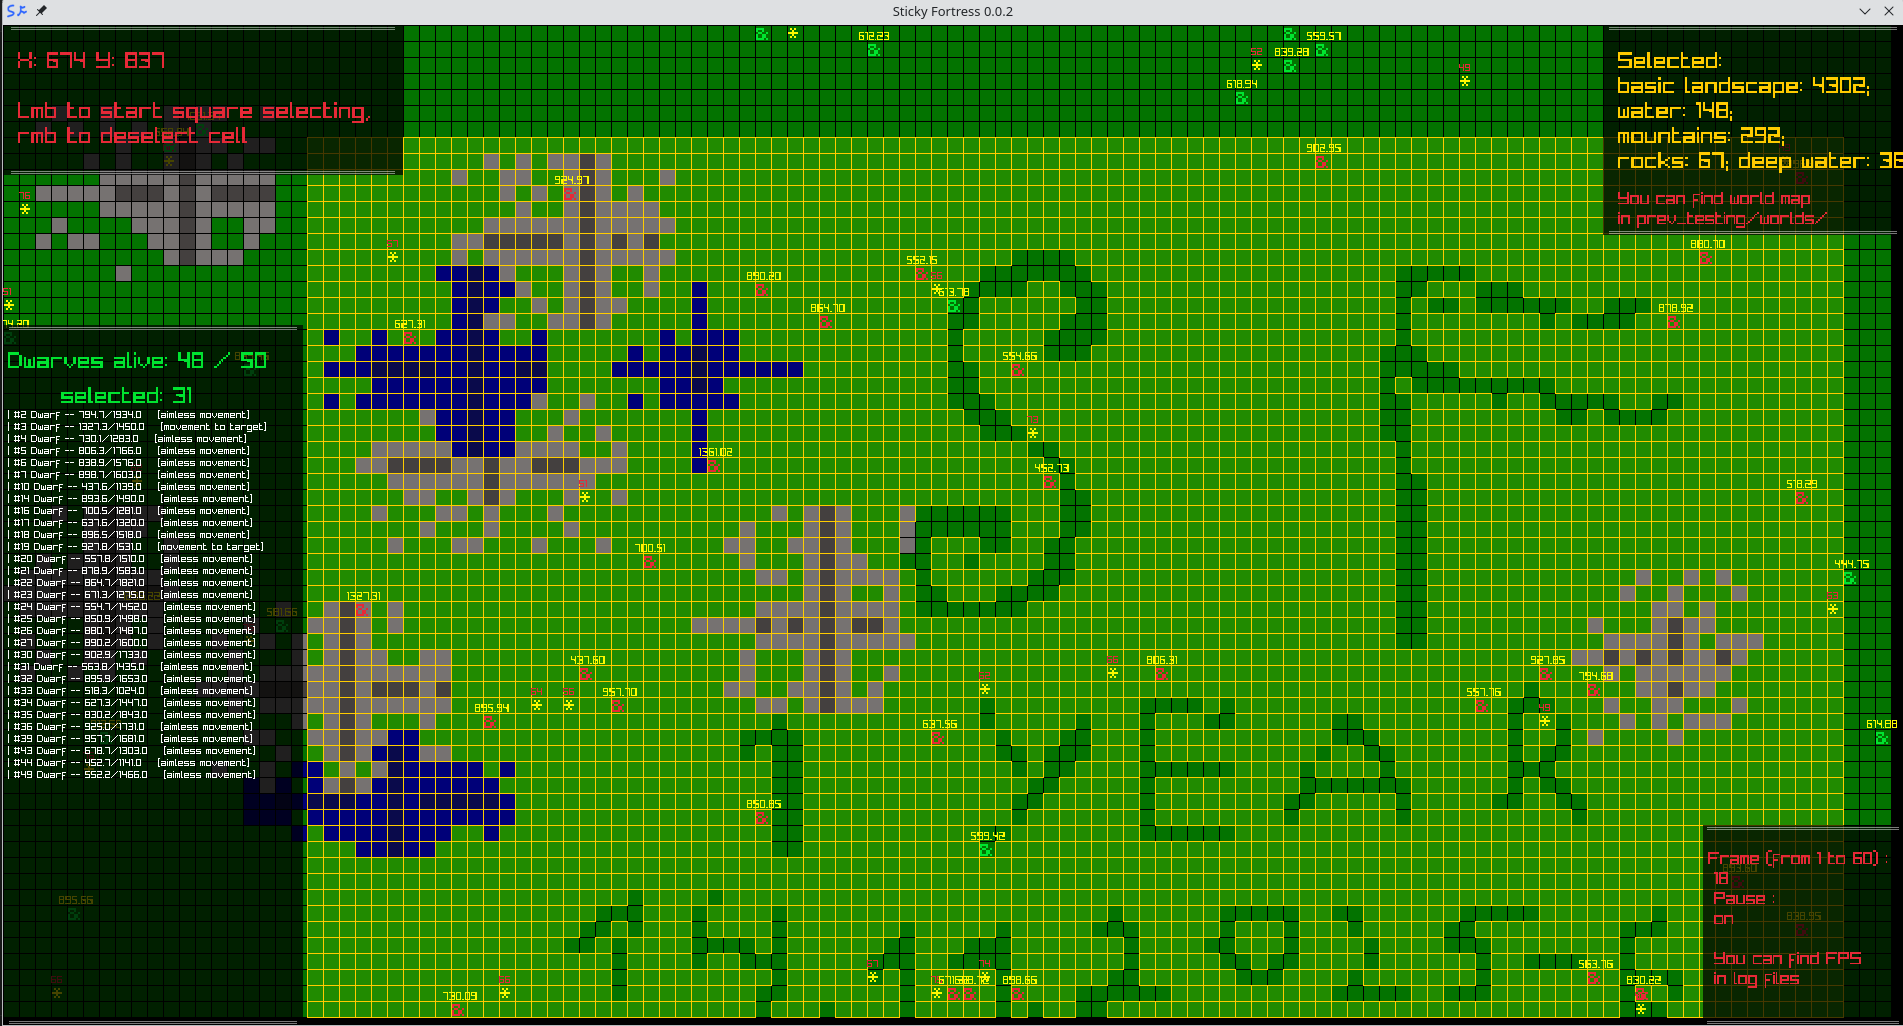
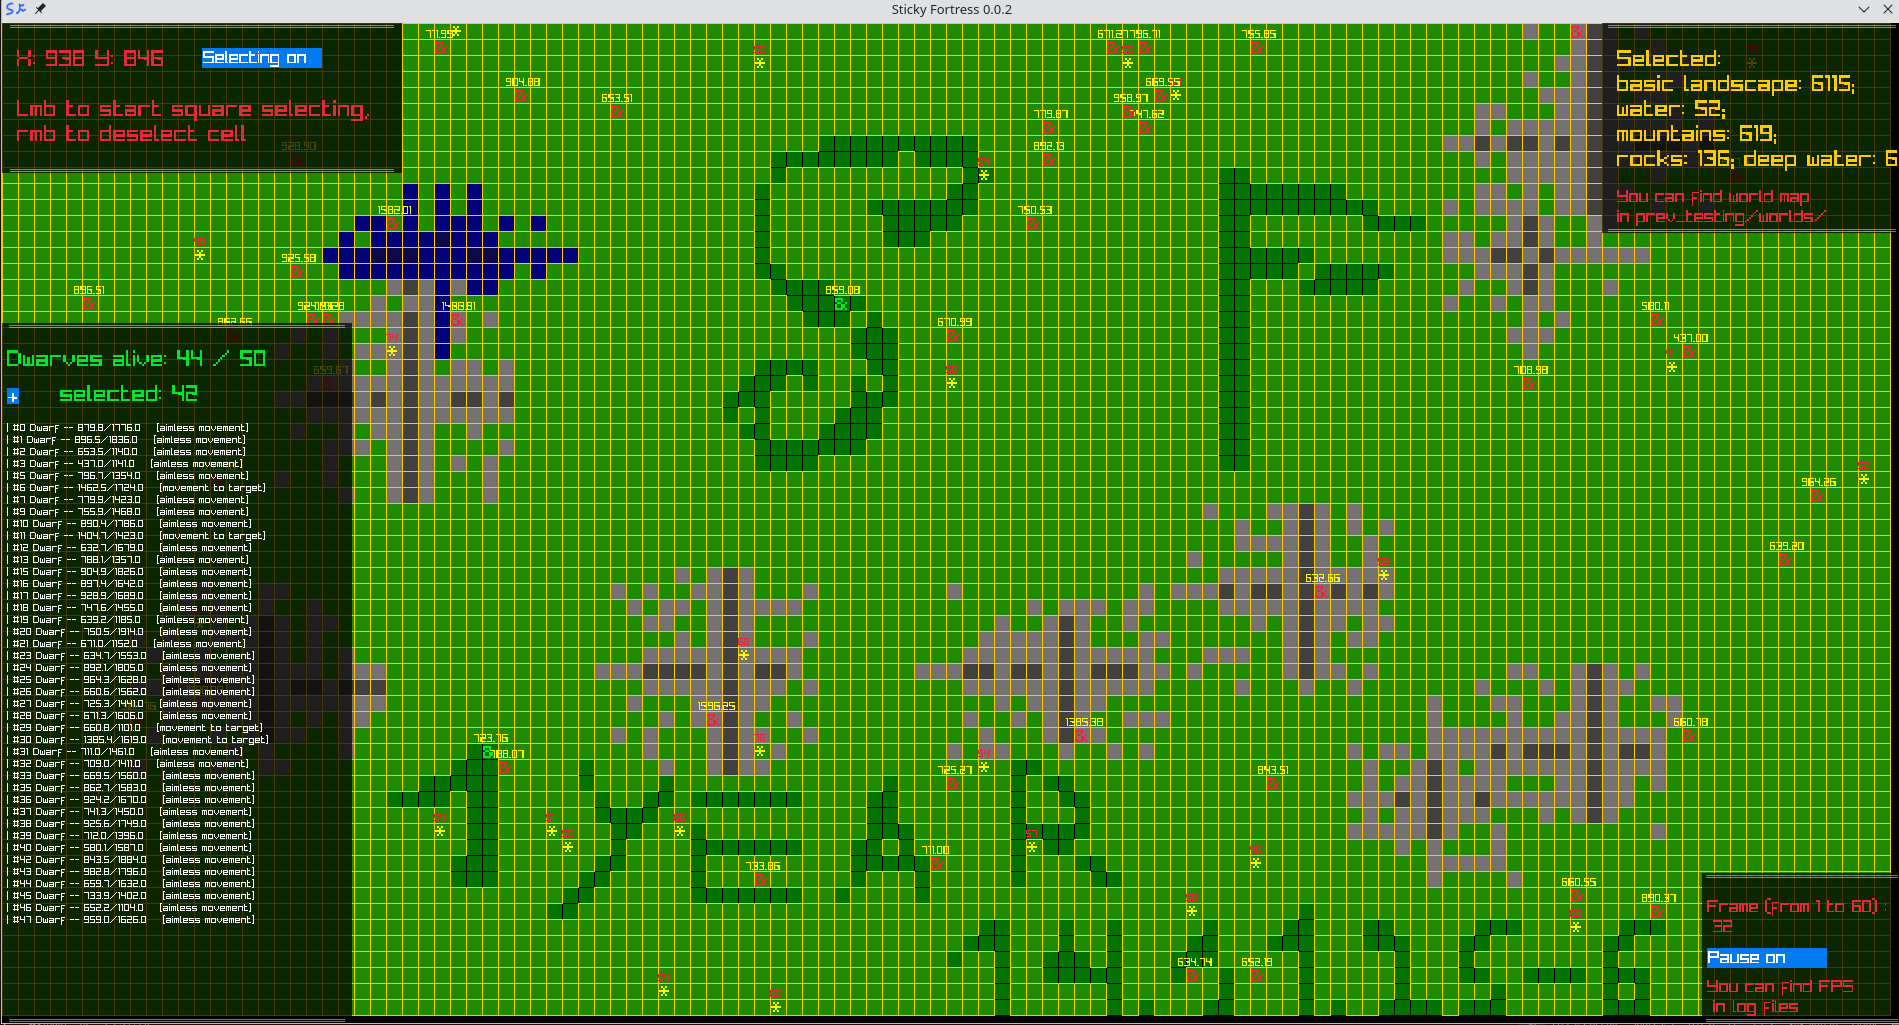
Updated image

diff --git a/prev_testing/src/run/uilord.c b/prev_testing/src/run/uilord.c
@@ -26,7 +26,7 @@ ui_lord *initialize_ui_lord(prog_params_data_lord *prog_params_data, int default
 
     gui_text frame_info_text = {.text = (char *)calloc(prog_params_data->text_buffer_size, 1), .start_coords.x = frame_info.start_coords.x + 5, .start_coords.y = frame_info.start_coords.y + 25, .font_size = default_font_size - 5, .font_color = RED};
 
-    gui_text dwarves_selected_list_text = {.text = (char *)calloc(prog_params_data->text_buffer_size, 10), .start_coords.x = dwarves_selected_text.start_coords.x, .start_coords.y = dwarves_selected_text.start_coords.y + 40, .font_size = default_font_size - 20, .font_color = WHITE};
+    gui_text dwarves_selected_list_text = {.text = (char *)calloc(prog_params_data->text_buffer_size, 10), .start_coords.x = dwarves_selected_text.start_coords.x, .start_coords.y = dwarves_selected_text.start_coords.y + 40, .font_size = default_font_size - 13, .font_color = WHITE};
 
     gui_button selecting_mode_switch_button = {.start_coords.x = 200, .start_coords.y = 25, .canv_size_coords.x = 120, .canv_size_coords.y = 20, .background_color = BLUE, .text = (char *)calloc(prog_params_data->text_buffer_size, 1), .font_color = WHITE, .font_size = default_font_size - 5, .is_downed = false};
     gui_button pause_switch_button = {.start_coords.x = frame_info.start_coords.x + 5, .start_coords.y = frame_info.start_coords.y + 75, .canv_size_coords.x = 120, .canv_size_coords.y = 20, .background_color = BLUE, .text = (char *)calloc(prog_params_data->text_buffer_size, 1), .font_color = WHITE, .font_size = default_font_size - 5, .is_downed = false};
